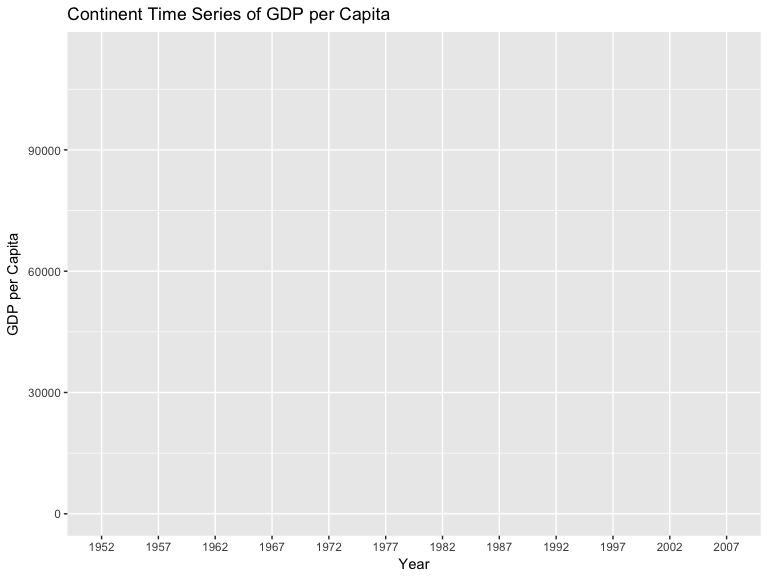
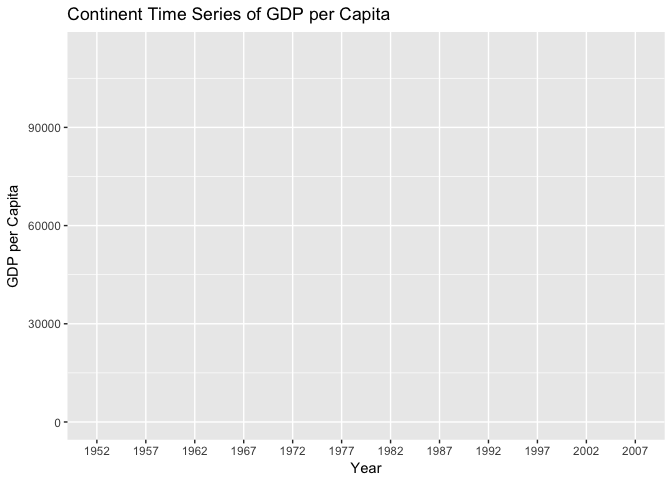
Figures.

Changed region(s): [[0.0, 0.0, 1.0, 1.0]]

diff --git a/hw02/hw2_dplyr_ggplot2.md b/hw02/hw2_dplyr_ggplot2.md
@@ -11,7 +11,6 @@ First of all, we need to load the corresponding libraries.
 ``` r
 suppressPackageStartupMessages(library(tidyverse))
 suppressPackageStartupMessages(library(gapminder))
-knitr::opts_chunk$set(fig.width = 8, fig.height = 6)
 ```
 
 Smell Test the Data
